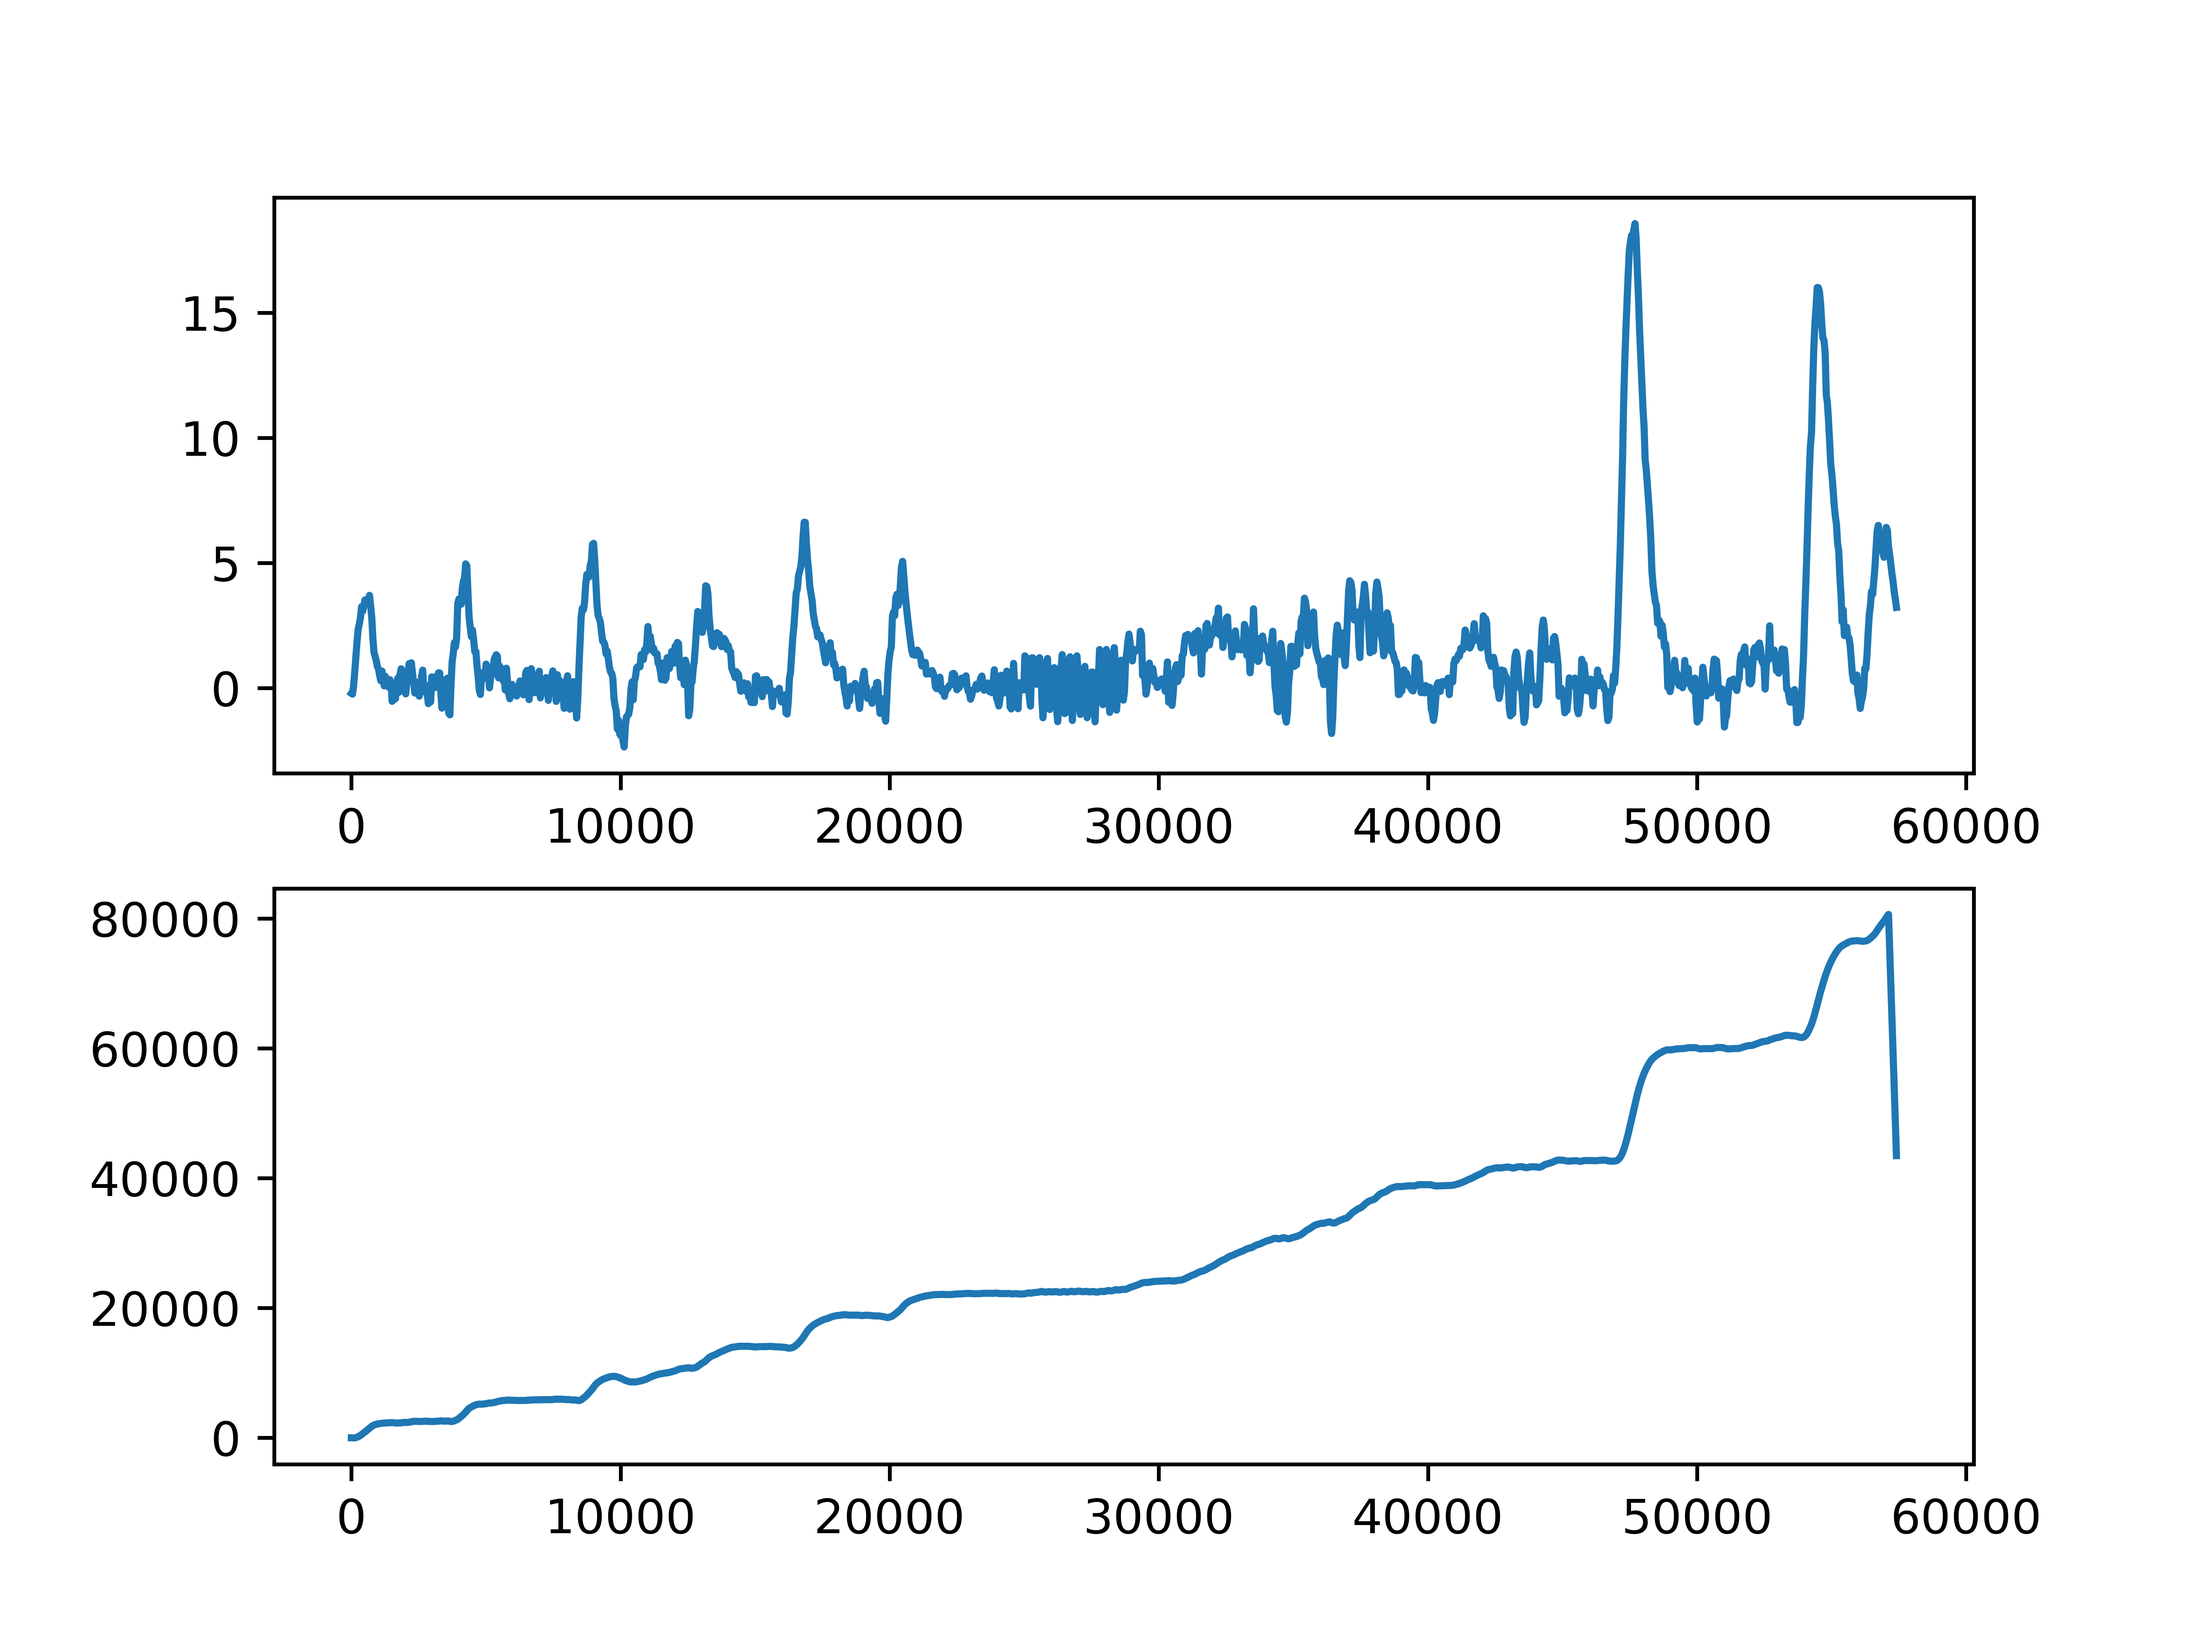
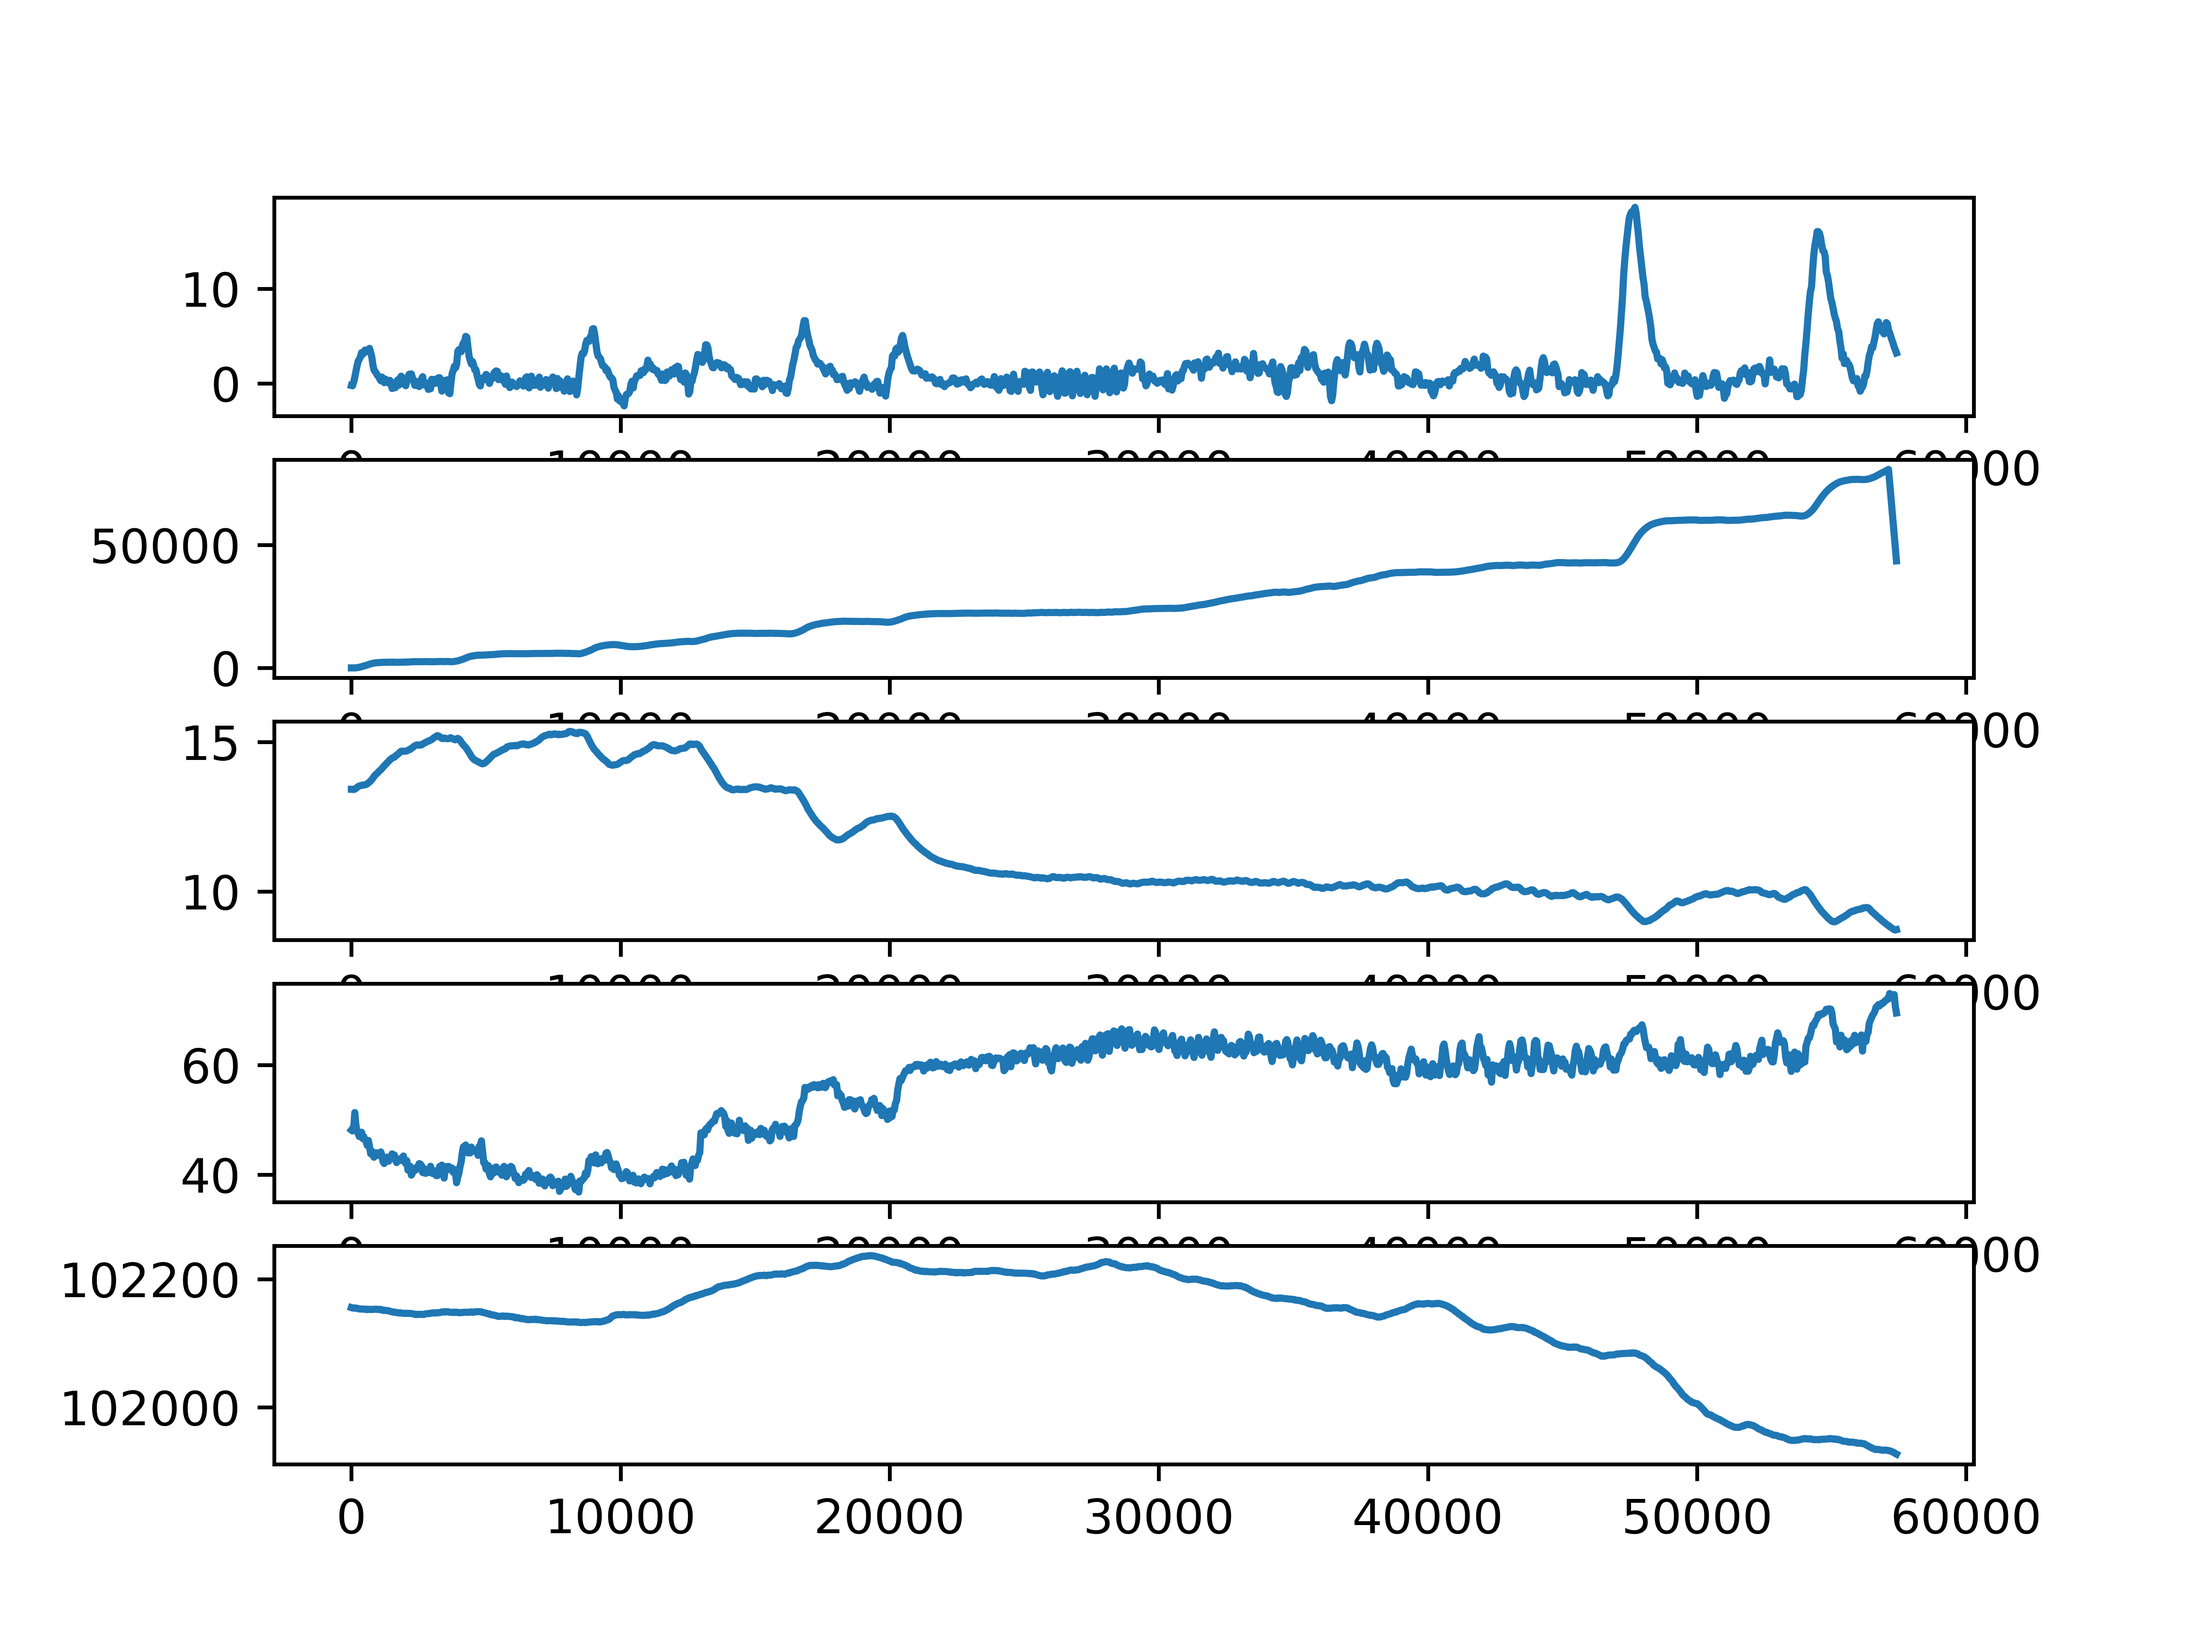
tried some more things

diff --git a/Measuremenst.py b/Measuremenst.py
@@ -9,9 +9,9 @@ save_path = path + r"\Scale\Plots"
 data = np.loadtxt(data_path, delimiter=',', skiprows=0, dtype=str)
 
 Time = data[:,0]
-Pressure = data[:,1]
-Temperature = data[:,2]
-Humidity = data[:,3]
+Pressure = data[:,1].astype(float)
+Temperature = data[:,2].astype(float)
+Humidity = data[:,3].astype(float)
 Mass = data[:,4].astype(float)
 
 
@@ -26,9 +26,18 @@ filter = np.ones(15)
 Flow = np.convolve(filter, Mass_flow, "same")
 Mass_filtered = np.convolve(filter, Mass, "same")
 
-fig, ax = plt.subplots(2)
+fig, ax = plt.subplots(5)
 ax[0].plot(t, Flow, label="flow")
 ax[1].plot(np.linspace(0, dt*len(Time), len(Time)), Mass_filtered)
-#ax[0].set_labels(xlabel= r"$\Phi_m$", ylabel = )
+ax[2].plot(np.linspace(0, dt*len(Temperature), len(Temperature)), Temperature)
+ax[3].plot(np.linspace(0, dt*len(Temperature), len(Temperature)), Humidity)
+ax[4].plot(np.linspace(0, dt*len(Temperature), len(Temperature)), Pressure)
 plt.savefig(save_path + "\MassflowAndWeight", dpi=800)
 plt.show()
+
+#cor_hum_Mass_flow = np.correlate(Mass_flow, Humidity, "same")
+
+#fig, axs = plt.subplots(1)
+#axs.plot(np.linspace(0, dt*len(cor_hum_Mass_flow), len(cor_hum_Mass_flow)), cor_hum_Mass_flow)
+#plt.savefig(save_path + "\correlation", dpi=800)
+
